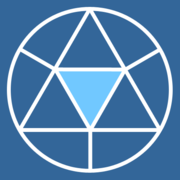
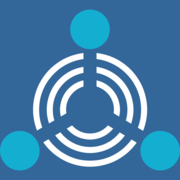
Updated branding

diff --git a/public/assets/css/style.css b/public/assets/css/style.css
@@ -3,7 +3,6 @@ html
     font-family: 'Open Sans', 'Segoe UI', arial, sans-serif;
     font-size: 14px;
     color: #111;
-    background: #eee;
 }
 
 body
@@ -144,20 +143,12 @@ table
 
 main
 {
-    position: absolute;
-    left: 0;
-    right: 0;
-    top: 100px;
-    bottom: 100px;
-    display: block;
     background-color: #fff;
 }
 
 #welcome-wrapper
 {
     margin: 0 auto;
-    padding: 100px 0;
-    width: 1024px;
 }
 
 #welcome h1
@@ -168,4 +159,44 @@ main
 #learn-more
 {
     margin-top: 30px;
+}
+
+@media screen and (min-device-width: 1024px)
+{
+    body
+    {
+        background: #eee;
+    }
+
+    main
+    {
+        position: absolute;
+        left: 0;
+        right: 0;
+        top: 100px;
+        bottom: 100px;
+        min-height: 350px;
+    }
+
+    #welcome-wrapper
+    {
+        padding: 100px 162px;
+        min-width: 800px;
+        max-width: 1024px;
+        background: url('/assets/images/opulence-background.png') 0 100px no-repeat;
+    }
+}
+
+@media screen and (max-device-width: 1023px)
+{
+    main
+    {
+        padding: 10px;
+    }
+
+    #welcome-wrapper
+    {
+        padding-bottom: 130px;
+        background: url('/assets/images/opulence-background.png') bottom center no-repeat;
+    }
 }

diff --git a/resources/views/Home.fortune.php b/resources/views/Home.fortune.php
@@ -1,13 +1,13 @@
 <!DOCTYPE html>
 <html>
     <head>
-        <meta name="viewport" content="width=1024"/>
+        <meta name="viewport" content="initial-scale=1" />
         {{! charset("utf-8") !}}
         {{! pageTitle($title) !}}
         {{! css("http://fonts.googleapis.com/css?family=Open+Sans:300italic,400italic,700italic,300,400,700") !}}
         {{! css($css) !}}
-        <link rel="icon" type="image/png" href="/favicon-32x32.png" sizes="32x32">
-        <link rel="icon" type="image/png" href="/favicon-16x16.png" sizes="16x16">
+        <link rel="icon" type="image/png" href="/favicon-32x32.png?v=1.0" sizes="32x32">
+        <link rel="icon" type="image/png" href="/favicon-16x16.png?v=1.0" sizes="16x16">
     </head>
     <body>
         <main class="main">
